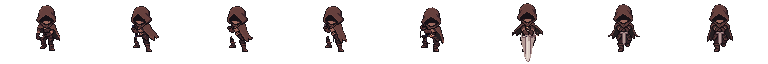
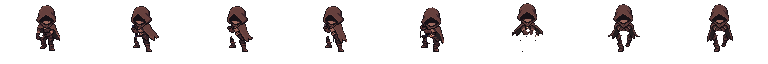
feat: 정면 3타 찌르는 칼을 무기별 찌르기용 칼 그림으로 분리
좋다고 한 PixelLab 그림 그대로 보이면서 칼을 바꿔 끼울 수 있게, 찌르는 6~8번째의 큰 칼을
weapons/old_sword_front_3.png 로 떼어 몸 위에 겹친다. 그림이 없는 무기는 옆모습 칼을 짧게 그린다.

Changed region(s): [[0.6562, 0.4688, 0.7188, 0.9375], [0.9062, 0.5, 0.9688, 0.6875], [0.7812, 0.5, 0.8438, 0.6875]]

diff --git a/assets/concepts/pixellab/player_import/build_remake_preview.py b/assets/concepts/pixellab/player_import/build_remake_preview.py
@@ -185,25 +185,46 @@ def analyse(frame):
     return best, set(smear), set(blue)
 
 
-# 칼을 빼지 않고 PixelLab 그림 그대로 두는 프레임 (2026-11-17 사용자 결정: 정면 3타 찌르는 순간)
+# PixelLab 이 그린 칼을 그대로 떼어 '찌르기용 칼 그림'(무기 레이어)으로 쓰는 프레임 (2026-11-17 사용자 결정: 정면 3타 찌르는 순간).
+# 보는 사람 쪽으로 튀어나오는 칼은 옆모습 칼 한 장을 돌려서는 그릴 수 없어서, 칼마다 이 그림을 따로 둔다.
 KEEP_BLADE = {('front3', 6), ('front3', 7), ('front3', 8)}
 # 게임 칼(old_sword.png)의 칼날 색, 어두운 것부터
 STEEL = [(113, 83, 89, 255), (178, 154, 149, 255), (219, 204, 197, 255), (233, 220, 210, 255)]
 
 
-def steel_blade(frame):
-    """파란 칼과 흰 하이라이트를 밝기에 따라 게임 칼 색으로 바꾼다."""
-    img = frame.copy()
-    px = img.load()
-    for y in range(img.height):
-        for x in range(img.width):
-            c = px[x, y]
-            if not c[3]:
-                continue
-            if is_blue(c) or min(c[:3]) > 240:
+def is_blade(c):
+    """PixelLab 칼 픽셀: 파랑 또는 칼날의 흰 하이라이트."""
+    return c[3] > 0 and (is_blue(c) or min(c[:3]) > 240)
+
+
+def split_blade(frame):
+    """(칼을 뺀 몸, 게임 칼 색으로 바꾼 칼만) 로 나눈다. 둘을 겹치면 원래 그림과 같다."""
+    body, blade = frame.copy(), Image.new('RGBA', frame.size, (0, 0, 0, 0))
+    src, bpx, apx = frame.load(), body.load(), blade.load()
+    for y in range(frame.height):
+        for x in range(frame.width):
+            c = src[x, y]
+            if is_blade(c):
+                bpx[x, y] = (0, 0, 0, 0)
                 light = sum(c[:3]) / 3
                 level = 0 if light < 90 else 1 if light < 150 else 2 if light < 210 else 3
-                px[x, y] = STEEL[level]
+                apx[x, y] = STEEL[level]
+    # 칼날을 둘러싼 검은 테두리도 칼 쪽으로 옮긴다 (다른 칼로 바꿨을 때 몸에 칼 테두리가 남지 않게)
+    edge = [(x, y) for y in range(frame.height) for x in range(frame.width)
+            if bpx[x, y][3] and max(bpx[x, y][:3]) < 45
+            and any(0 <= x + dx < frame.width and 0 <= y + dy < frame.height and is_blade(src[x + dx, y + dy])
+                    for dx, dy in ((1, 0), (-1, 0), (0, 1), (0, -1)))]
+    for x, y in edge:
+        apx[x, y] = bpx[x, y]
+        bpx[x, y] = (0, 0, 0, 0)
+    return body, blade
+
+
+def steel_blade(frame):
+    """파란 칼과 흰 하이라이트를 밝기에 따라 게임 칼 색으로 바꾼다 (미리보기용: 몸 + 칼을 한 장으로)."""
+    body, blade = split_blade(frame)
+    body.alpha_composite(blade)
+    img = body
     return img
 
 
@@ -516,12 +537,12 @@ def build_layers(name, frames):
                     # 아주 어두운 픽셀은 원본 칼 테두리일 수 있어 칼 위에 다시 그리지 않는다
                     if c[3] and max(c[:3]) >= 45 and math.dist((x, y), (hx, hy)) <= HAND_RADIUS:
                         hand.putpixel((x, y), c)
+        art = None
         if (name, col) in KEEP_BLADE:
-            # PixelLab 이 그린 칼을 몸 그림에 그대로 둔다 (칼이 다리를 덮어 그려져 빼면 다리가 없음).
-            # 파란 칼만 게임 칼 색으로 바꾸고, 게임 칼과 손 레이어는 그리지 않는다 (칼 길이 비율 0).
-            sheet = steel_blade(originals[col - 1])
+            # PixelLab 이 그린 칼을 떼어 무기 레이어(art)로, 나머지는 몸으로. 칼이 덮던 다리 자리는 칼이 그대로 덮는다.
+            sheet, art = split_blade(originals[col - 1])
             hand = Image.new('RGBA', (CELL, CELL), (0, 0, 0, 0))
-        layers.append({'body': sheet, 'hand': hand, 'sword': (hx, hy, angle, bool(behind))})
+        layers.append({'body': sheet, 'hand': hand, 'sword': (hx, hy, angle, bool(behind)), 'art': art})
     return layers, swords, infos
 
 

diff --git a/game/config.py b/game/config.py
@@ -139,16 +139,15 @@ PLAYER_ATTACK_SWORD = (
 )
 # 정면(아래를 볼 때) 칼 위치표. 1·2·3타 모두 2026-11-17 PixelLab 그림(8프레임, export_to_game.py 가 뽑은 값.
 # 2타 v9 와 3타 찌르기는 시작·끝 자세를 지정해 만듦). 다섯 번째 값은 칼 길이 비율:
-# 3타는 칼이 보는 사람 쪽으로 기울어 짧아 보이게 그린다. 찌르는 6~8번째는 0 = 게임 칼을 그리지 않고
-# 몸 그림에 남긴 PixelLab 칼(게임 칼 색)을 보여 준다 (칼이 다리를 덮어 그려져 빼면 다리가 없음, 사용자 결정).
-# 후면은 보류 (사용자 결정).
+# 3타는 칼이 보는 사람 쪽으로 기울어 짧아 보이게 그린다. 찌르는 6~8번째는 무기의 찌르기용 칼 그림
+# (PLAYER_WEAPON_VIEW_ART)을 쓰고, 그 그림이 없는 무기는 이 표대로 옆모습 칼을 짧게 그린다. 후면은 보류 (사용자 결정).
 PLAYER_ATTACK_SWORD_FRONT = (
     ((40, 37, 137, False), (45, 34, 126, False), (61, 32, 117, True), (66, 28, 113, False),
      (64, 38, -40, False), (50, 41, -146, False), (39, 43, -138, False), (38, 41, -135, False)),
     ((40, 45, -129, False), (40, 43, -131, False), (39, 44, -132, False), (39, 44, -132, False),
      (58, 27, 62, False), (61, 26, 140, True), (63, 27, 142, True), (61, 27, 139, True)),
     ((39, 36, -129, False, 0.6), (38, 32, -52, False, 0.6), (38, 31, -55, False, 0.6), (39, 31, -59, False, 0.6),
-     (40, 31, -61, False, 0.6), (48, 30, -90, False, 0.0), (48, 30, -90, False, 0.0), (48, 30, -90, False, 0.0)),
+     (40, 31, -61, False, 0.6), (48, 30, -90, False, 0.55), (48, 30, -90, False, 0.55), (48, 30, -90, False, 0.55)),
 )
 # 정면 타별 프레임 표와 그림 옮김 (같은 진행도에서 고른다). None = 측면과 같은 8프레임 같은 간격.
 # 정면 1·2타는 크게 휘두르는 그림이 측면보다 늦게 나와(1타 6번째, 2타 5번째) 판정 시점에 그 그림이 시작되도록
@@ -172,6 +171,10 @@ PLAYER_ATTACK_SWORD_BACK = (None, None, None)
 PLAYER_SWORD_SPRITE_WIDTH = 56
 PLAYER_SWORD_SPRITE_HEIGHT = 10
 PLAYER_WEAPON = "old_sword"  # 시작 장비: 낡은 검
+# 찌르기용 칼 그림을 쓰는 프레임 (2026-11-17 사용자 결정): (방향, 타 번호) → 프레임 번호(0부터).
+# 보는 사람 쪽으로 튀어나오는 칼은 옆모습 칼 한 장을 돌려서는 그릴 수 없어 무기마다 그림을 따로 둔다:
+# weapons/<무기>_<방향>_<타>.png (공격 시트와 같은 96×64 칸, 몸 위에 그대로 겹침). 칼을 바꾸면 이 그림도 바뀐다.
+PLAYER_WEAPON_VIEW_ART = {("front", 3): (5, 6, 7)}
 
 # ----- 연습용 허수아비 (공격 판정 확인용) -----
 # [임시값] 2026-11-17. 맞으면 깜빡임·흔들림·피해 숫자, 체력이 다하면 쓰러졌다가 다시 선다.

diff --git a/tests/test_player.py b/tests/test_player.py
@@ -6,7 +6,7 @@ from game.input.input_state import Action, InputState
 from game.player.facing import Facing
 from game.player.player import (LEFT_SHEET_STATES, SHADOW_PATH, Player, attack_hand_sheet_path, attack_sheet_path,
                                attack_view,
-                               sprite_sheet_path, weapon_sheet_path)
+                               sprite_sheet_path, weapon_sheet_path, weapon_view_art_path)
 from game.player.state_machine import ATTACK, DODGE, IDLE, JUMP, PARRY, WALK
 from game.scenes.field_scene import FieldScene
 from game.world.grid import Grid
@@ -521,8 +521,8 @@ class PlayerAttackTest(unittest.TestCase):
         self.assertEqual(args[1:], bargs[1:])
         self.assertEqual(kwargs, bkw)
 
-    def test_front_thrust_draws_no_game_sword(self):
-        # 정면 3타 찌르는 순간은 칼이 몸 그림에 들어 있어(PixelLab 칼) 게임 칼을 그리지 않는다
+    def _draw_front_thrust(self):
+        # 아래를 보고 3타 찌르는 순간까지 공격한 뒤 그린다
         self._draw_attack_frame(action=Action.MOVE_DOWN)
         for _ in range(round(3.0 / self.DT)):
             combo = self.player.combo
@@ -533,7 +533,25 @@ class PlayerAttackTest(unittest.TestCase):
             self.fail("3타 찌르는 순간에 닿지 못함")
         renderer = _RecordingRenderer()
         self.player.draw(renderer)
-        self.assertNotIn("draw_image_rotated", [call[0] for call in renderer.calls])
+        return renderer.calls
+
+    def test_front_thrust_draws_weapon_view_art(self):
+        # 정면 3타 찌르는 순간은 무기의 찌르기용 칼 그림을 몸 위에 겹친다 (옆모습 칼을 돌리지 않음)
+        calls = self._draw_front_thrust()
+        art = weapon_view_art_path(config.PLAYER_WEAPON, "front", 3)
+        paths = [call[1][0] for call in calls if call[0] == "draw_sprite_frame"]
+        self.assertEqual(paths.index(art), paths.index(attack_sheet_path(3, "front")) + 1)
+        self.assertNotIn("draw_image_rotated", [call[0] for call in calls])
+
+    def test_front_thrust_without_view_art_uses_rotated_sword(self):
+        # 찌르기용 칼 그림이 없는 무기는 옆모습 칼을 짧게 돌려 그린다 (칼 바꿔 끼우기)
+        original = config.PLAYER_WEAPON
+        config.PLAYER_WEAPON = "no_view_art_sword"
+        try:
+            calls = self._draw_front_thrust()
+        finally:
+            config.PLAYER_WEAPON = original
+        self.assertIn("draw_image_rotated", [call[0] for call in calls])
 
     def test_attack_facing_down_uses_front_sheets(self):
         # 아래를 보면 정면 몸·칼 앞 레이어 시트와 정면 칼 위치표를 쓴다. 반전 없음.

diff --git a/game/player/player.py b/game/player/player.py
@@ -12,6 +12,8 @@
 """
 from __future__ import annotations
 
+import os
+
 from game import config
 from game.input.input_state import Action, InputState
 from game.combat.enemy_attack import AVOIDED, HIT, MISSED, PARRIED, EnemyAttack
@@ -60,6 +62,11 @@ def attack_view(facing: Facing, hit_index: int = 0) -> str:
 def weapon_sheet_path(weapon: str) -> str:
     """무기 그림 경로 (칼 한 장). 예: weapons/old_sword.png"""
     return str(config.PLAYER_IMAGE_DIR / "weapons" / f"{weapon}.png")
+
+
+def weapon_view_art_path(weapon: str, view: str, hit_number: int) -> str:
+    """무기의 찌르기용 칼 그림 시트 경로 (공격 시트와 같은 칸). 예: weapons/old_sword_front_3.png"""
+    return str(config.PLAYER_IMAGE_DIR / "weapons" / f"{weapon}_{view}_{hit_number}.png")
 
 
 SHADOW_PATH = str(config.PLAYER_IMAGE_DIR / "shadow.png")
@@ -366,7 +373,7 @@ class Player:
         """지금 타의 공격 그림(96×64 캔버스)을 발끝이 칸 아래 가운데에 오도록 그린다.
 
         아래를 보면 정면, 오른쪽·왼쪽은 측면 그림(왼쪽은 좌우 반전)을 쓴다.
-        후면은 그림이 없어 위를 볼 때 측면 그림을 쓴다. 정면 3타는 예전 5프레임 그림이다.
+        후면은 그림이 없어 위를 볼 때 측면 그림을 쓴다. 정면 3타 찌르는 순간은 무기의 찌르기용 칼 그림을 쓴다.
         """
         width, height = config.PLAYER_ATTACK_SPRITE_WIDTH, config.PLAYER_ATTACK_SPRITE_HEIGHT
         scale = config.RENDER_SCALE
@@ -392,10 +399,16 @@ class Player:
                 canvas_x, canvas_bottom, width * scale, height * scale, flip_horizontal=flip,
             )
 
+        # 찌르기용 칼 그림이 있는 프레임이면 옆모습 칼을 돌리는 대신 그 그림을 몸 위에 겹친다 (없는 무기는 옆모습 칼)
+        art_path = weapon_view_art_path(config.PLAYER_WEAPON, view, self.combo.hit_number)
+        use_art = (frame in config.PLAYER_WEAPON_VIEW_ART.get((view, self.combo.hit_number), ())
+                   and os.path.exists(art_path))
         # 두 손 잡기: 몸(두 팔, 칼 뒤의 왼손) → 칼 → 오른손 레이어 (오른손이 칼을 감싸 쥔 모습)
         if not behind:
             draw_layer(attack_sheet_path(self.combo.hit_number, view))
-        if length > 0:  # 0 = 칼이 몸 그림에 들어 있음 (정면 3타 찌르는 순간)
+        if use_art:
+            draw_layer(art_path)
+        else:
             self._draw_sword(renderer, canvas_x, canvas_bottom, hand_x, hand_y, angle, flip, length)
         if behind:
             draw_layer(attack_sheet_path(self.combo.hit_number, view))

diff --git a/tests/test_player_assets.py b/tests/test_player_assets.py
@@ -5,7 +5,8 @@ import zlib
 
 from game import config
 from game.player.player import (LEFT_SHEET_STATES, SHADOW_PATH, SPRITE_FALLBACK, attack_hand_sheet_path,
-                               attack_sheet_path, sprite_sheet_path, weapon_sheet_path)
+                               attack_sheet_path, sprite_sheet_path, weapon_sheet_path,
+                               weapon_view_art_path)
 from game.player.state_machine import ATTACK, IDLE, JUMP, STATES, WALK
 
 VIEWS = ("front", "back", "side")
@@ -220,7 +221,7 @@ class PlayerAssetTest(unittest.TestCase):
                     self.assertEqual((width, height), (w * count, h))
                 for hand_x, hand_y, angle, behind, *rest in frames:
                     self.assertTrue(0 <= hand_x < w and 0 <= hand_y < h)
-                    self.assertTrue(all(0 <= length <= 1.0 for length in rest))  # 0 = 칼이 몸 그림에 들어 있음
+                    self.assertTrue(all(0 < length <= 1.0 for length in rest))
         self.assertEqual(config.PLAYER_ATTACK_SWORD_BACK, (None, None, None))
 
     def test_front_big_swing_frame_starts_at_hit_time(self):
@@ -241,6 +242,19 @@ class PlayerAssetTest(unittest.TestCase):
             self.assertEqual(len(ends), config.PLAYER_ATTACK_FRAMES)
             self.assertEqual(len(shifts), config.PLAYER_ATTACK_FRAMES)
             self.assertEqual(shifts[-1], (0, 0))  # 마지막 프레임은 제자리
+
+    def test_weapon_view_art_sheets(self):
+        # 찌르기용 칼 그림: 공격 시트와 같은 칸 수·크기이고, 쓰는 프레임에만 그림이 있다
+        from PIL import Image
+        w, h = config.PLAYER_ATTACK_SPRITE_WIDTH, config.PLAYER_ATTACK_SPRITE_HEIGHT
+        for (view, hit), frames in config.PLAYER_WEAPON_VIEW_ART.items():
+            path = weapon_view_art_path(config.PLAYER_WEAPON, view, hit)
+            sheet = Image.open(path).convert("RGBA")
+            count = Image.open(attack_sheet_path(hit, view)).size[0] // w
+            self.assertEqual(sheet.size, (w * count, h))
+            for i in range(count):
+                has_art = sheet.crop((i * w, 0, i * w + w, h)).getbbox() is not None
+                self.assertEqual(has_art, i in frames, (view, hit, i))
 
     def test_weapon_is_one_image_with_hand_at_center(self):
         # 칼 그림은 한 장: 칼끝이 오른쪽, 한가운데(손)에 주먹이 있고, 투명/불투명만 쓴다.

diff --git a/assets/concepts/pixellab/player_import/export_to_game.py b/assets/concepts/pixellab/player_import/export_to_game.py
@@ -74,14 +74,23 @@ def export_attacks(view='side'):
         layers, _, _ = b.build_layers(name, frames[1:])
         body = Image.new('RGBA', (ATTACK_W * len(layers), ATTACK_H), (0, 0, 0, 0))
         hand = Image.new('RGBA', body.size, (0, 0, 0, 0))
+        art = Image.new('RGBA', body.size, (0, 0, 0, 0))
+        art_frames = []
         table = []
         for i, layer in enumerate(layers):
             body.alpha_composite(layer['body'].crop(_src_box(dx, dy)), _dst(i, dx, dy))
             hand.alpha_composite(layer['hand'].crop(_src_box(dx, dy)), _dst(i, dx, dy))
+            if layer.get('art') is not None:
+                art.alpha_composite(layer['art'].crop(_src_box(dx, dy)), _dst(i, dx, dy))
+                art_frames.append(i)
             hx, hy, angle, behind = layer['sword']
             table.append((round(hx + dx), round(hy + dy), round(angle), behind))
         body.save(os.path.join(OUT, 'sword_attack', f'{view}_{hit}.png'))
         hand.save(os.path.join(OUT, 'sword_attack', f'{view}_{hit}_hand.png'))
+        if art_frames:
+            # 찌르기용 칼 그림 (무기마다 하나, 공격 시트와 같은 칸): weapons/<무기>_<방향>_<타>.png
+            art.save(os.path.join(OUT, 'weapons', f'old_sword_{view}_{hit}.png'))
+            print(f'# 찌르기용 칼 그림 {view} {hit}타 프레임 {tuple(art_frames)}')
         tables[hit] = table
     return tables
 
